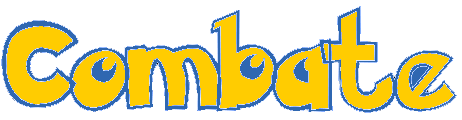
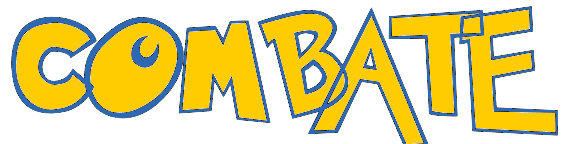
Casi terminada página inicial combate

diff --git a/IpoKemon_viewbox/Combate.xaml b/IpoKemon_viewbox/Combate.xaml
@@ -16,24 +16,38 @@
             <ColumnDefinition Width="375*"/>
         </Grid.ColumnDefinitions>
         <Grid.RowDefinitions>
-            <RowDefinition Height="68*"/>
-            <RowDefinition Height="933*"/>
+            <RowDefinition Height="11*"/>
+            <RowDefinition Height="89*"/>
         </Grid.RowDefinitions>
         <!--<Grid.Resources>
             <VisualBrush x:Key="MyVisualBrush" Visual="{Binding ElementName=txtBCombate}"/>
         </Grid.Resources> -->
 
 
-        <Image Source="/Assets/fondo_combate.png" Stretch="Fill" Grid.RowSpan="2" HorizontalAlignment="Left" Grid.ColumnSpan="4"/>
+        <Image Source="/Assets/fondo_combate.png" Stretch="Fill" Grid.RowSpan="2" HorizontalAlignment="Left" Grid.ColumnSpan="4" Width="1500"/>
         <!--  <Rectangle Fill="#FF7583D1" Grid.ColumnSpan="2" MinWidth="175" MinHeight="50" HorizontalAlignment="Center" VerticalAlignment="Center" Grid.Column="1"/>
        <TextBlock x:Name="txtBCombate" TextWrapping="Wrap" Text="Combate" Foreground="White" FontSize="36" FontFamily="ms-appx:///Assets/PokemonHollow.ttf#Pokemon Hollow" HorizontalAlignment="Center" VerticalAlignment="Center" Grid.ColumnSpan="2" Grid.Column="1"/> -->
         <Button x:Name="BtnUnJugador" Grid.Row="1" Grid.Column="1" VerticalAlignment="Stretch" HorizontalAlignment="Center" Margin="0,20,10,20">
-            <Image Source="Assets/UnJugador.png"/>
+            <StackPanel>
+                <Image Source="Assets/UnJugador.png" HorizontalAlignment="Center" VerticalAlignment="Center" />
+                <Viewbox MaxHeight="50">
+                    <TextBlock Text=" Un Jugador  " HorizontalAlignment="Center" FontWeight="Bold"/>
+                </Viewbox>
+            </StackPanel>
         </Button>
-        <Button x:Name="BtnDosJugadores" Grid.Row="1" Grid.Column="2" HorizontalAlignment="Center" VerticalAlignment="Stretch" Margin="10,20,0,20">
-            <Image Source="Assets/DosJugadores.png"/>
+
+        <Button x:Name="BtnDosJugadores" Grid.Row="1" Grid.Column="2" VerticalAlignment="Stretch" Margin="10,20,0,20" HorizontalAlignment="Center">
+            <StackPanel>
+                <Image Source="Assets/DosJugadores.png" />
+                <Viewbox MaxHeight="50">
+                    <TextBlock Text="Dos Jugadores" HorizontalAlignment="Center" FontWeight="Bold"/>
+                </Viewbox>
+            </StackPanel>
         </Button>
-        <Image Grid.Column="1" Grid.ColumnSpan="2" HorizontalAlignment="Center" Height="48" VerticalAlignment="Center" Width="159" Source="/Assets/CombatePokemonStyle.png"/>
+
+
+        <Image x:Name="imgTituloCombate" Grid.ColumnSpan="4" Source="/Assets/CombatePokemonStyle.png"/>
+
 
 
     </Grid>
